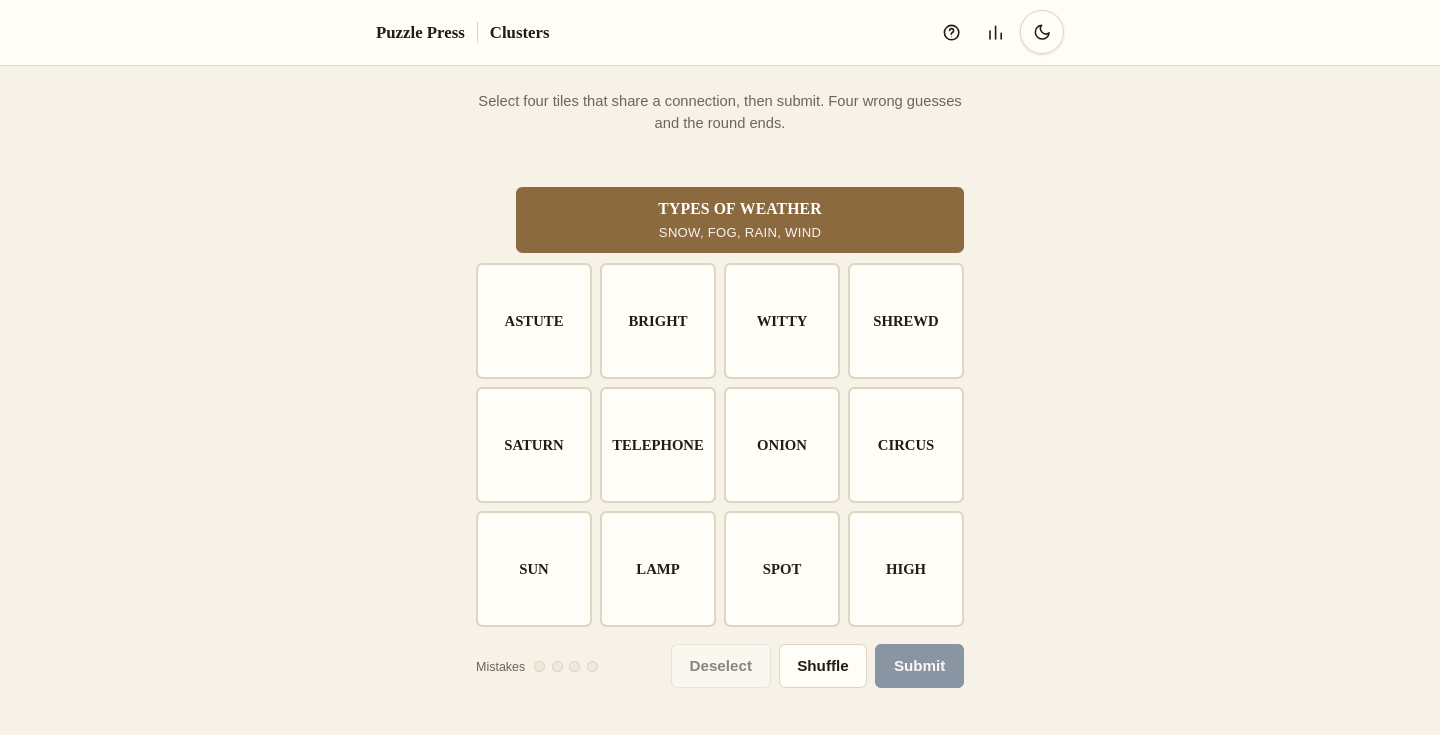
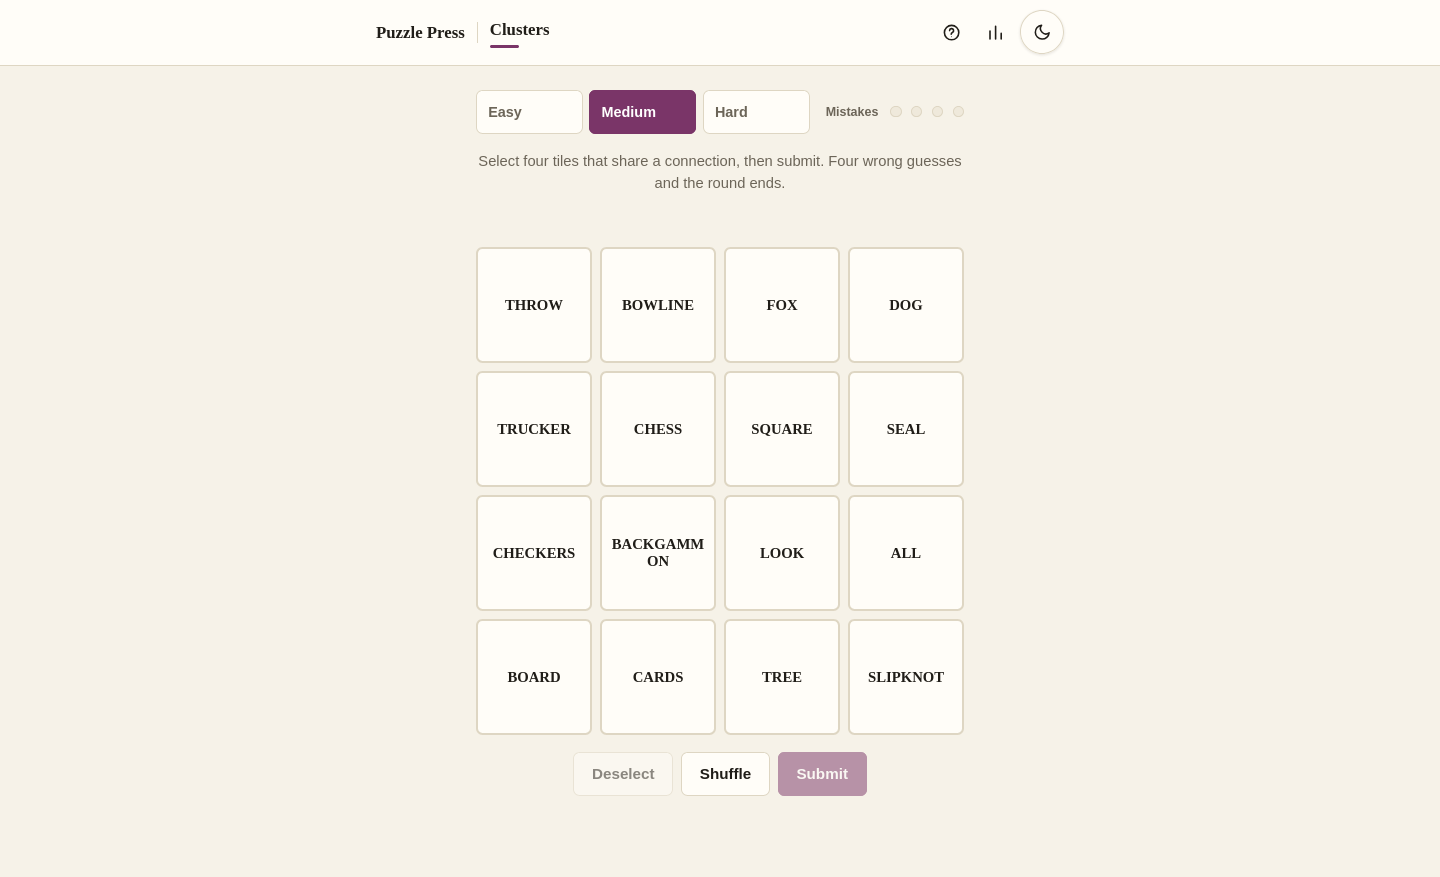
readme: document the difficulty tiers, fresh screenshots

diff --git a/README.md b/README.md
@@ -13,15 +13,32 @@ https://munzzyy.github.io/puzzlepress/ or serve the folder yourself.
 Wordrow gives you six tries at a five letter word, with a hard mode if you
 want it. Clusters asks you to sort sixteen tiles into four themed groups
 before your fourth mistake. Heptagram hands you seven letters and one of them
-has to appear in every word you build. Minigrid is a 5x5 crossword with hand
-written clues. Wordweave hides theme words in a grid of letters; one of them
-spans the board and names the theme. Edgeways puts twelve letters around a
-square and you chain words until every letter is used. Sudoku is the classic,
-with easy, medium and hard boards each day plus pencil marks and undo.
+has to appear in every word you build. Minigrid is a 5x5 crossword
+with hand written clues. Wordweave hides theme words in a grid of letters;
+one of them spans the board and names the theme. Edgeways puts twelve letters
+around a square and you chain words until every letter is used. Sudoku is
+the classic, with pencil marks and undo.
 
 ![Wordrow mid-game](docs/shots/wordrow.png)
 
 More screenshots live in [docs/shots](docs/shots).
+
+## Difficulties
+
+Every game comes in easy, medium and hard, and each difficulty is its own
+daily: a separate puzzle drawn from a separate bank, with its own streak and
+stats. Progress you had before difficulties existed carries over as your
+medium record, nothing is lost. What "hard" means depends on the game:
+
+| Game | Easy | Medium | Hard |
+| --- | --- | --- | --- |
+| Wordrow | very common answers, 7 guesses | the original answer pool, 6 guesses | less common answers, hard mode always on |
+| Clusters | distinct themes, no decoys | the standard mix | words that plausibly fit another group |
+| Heptagram | common letters, short word list | the standard wheel | 40+ words or a rare letter, top rank needs the pangram |
+| Minigrid | everyday fill, plain clues | the standard bank | trickier fill and clue angles |
+| Wordweave | 6x6 grid, theme shown up front | 6x8 grid | theme hidden until you find the spanning word |
+| Edgeways | par 3, common letters | par 2 | par 2 with a J, Q, X or Z on the square |
+| Sudoku | few empty cells | more empty cells | needs real technique |
 
 ## Run it locally
 
@@ -66,18 +83,23 @@ clues matching their answers, and so on.
 
 ## Honest limits
 
-- Word "commonness" is human judgment. We found no permissively licensed
-  English frequency list, so the answer lists were curated by hand while the
-  full guess dictionaries come straight from the public domain ENABLE list,
-  which accepts words like ZOEAE. The occasional obscure but valid word will
-  show up.
+- Word "commonness" is judgment plus one data point. Wordrow's easy and hard
+  answer tiers were ranked against Peter Norvig's public word frequency
+  counts in a one time offline pass, then read word by word to drop proper
+  nouns, brands and slang; nothing from that corpus ships or runs here. The
+  other curated lists are hand picked, and the full guess dictionaries come
+  straight from the public domain ENABLE list, which accepts words like
+  ZOEAE. The occasional obscure but valid word will show up.
 - Profanity filtering on the big dictionaries is a best effort blocklist,
   not a linguistic audit. The curated answer lists are clean.
 - Sudoku's hard tier is one wide bucket, graded by solving technique rather
   than a full named-technique ladder. Some hard days are harder than others.
 - Minigrid uses two block layouts across its bank. The other valid 5x5
   shapes produced no clean fills from the curated vocabulary, so they are
-  not in there.
+  not in there. That vocabulary also caps the bank: an exhaustive search
+  finds 130 fully crossed grids, split 45/45/40 across the tiers. Hard
+  puzzles are picked for trickier entries and reclued where a trickier clue
+  exists, but some of their clues still read like medium ones.
 - Sudoku cells land around 38px on a 360px phone, under the 44px touch
   guideline. Nine cells across a small screen leaves no way around it; every
   other control is 44px or better.
